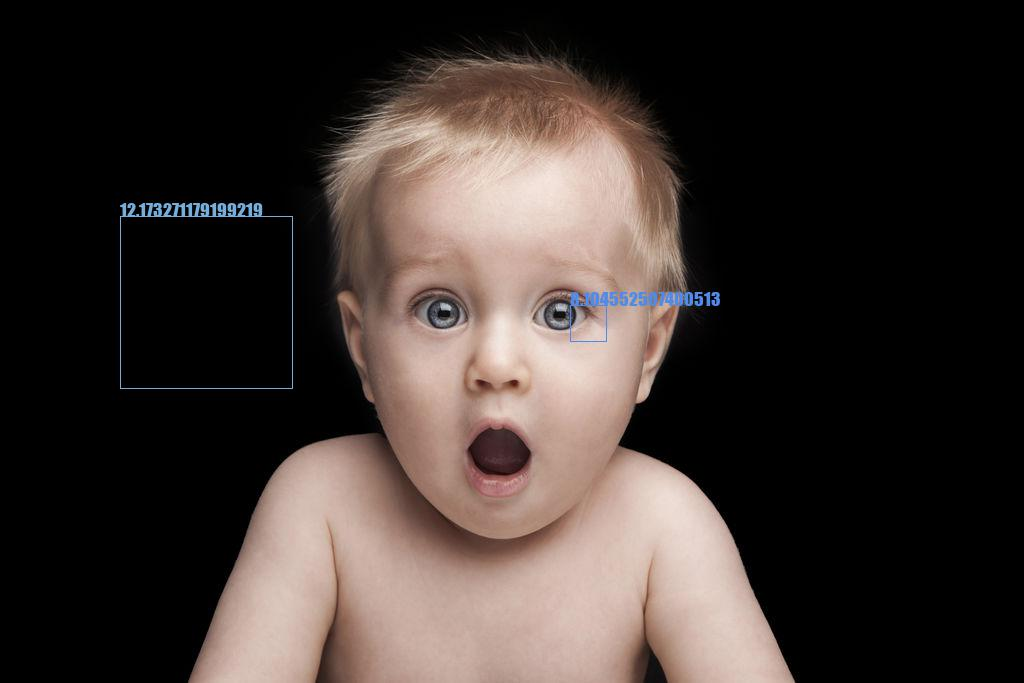
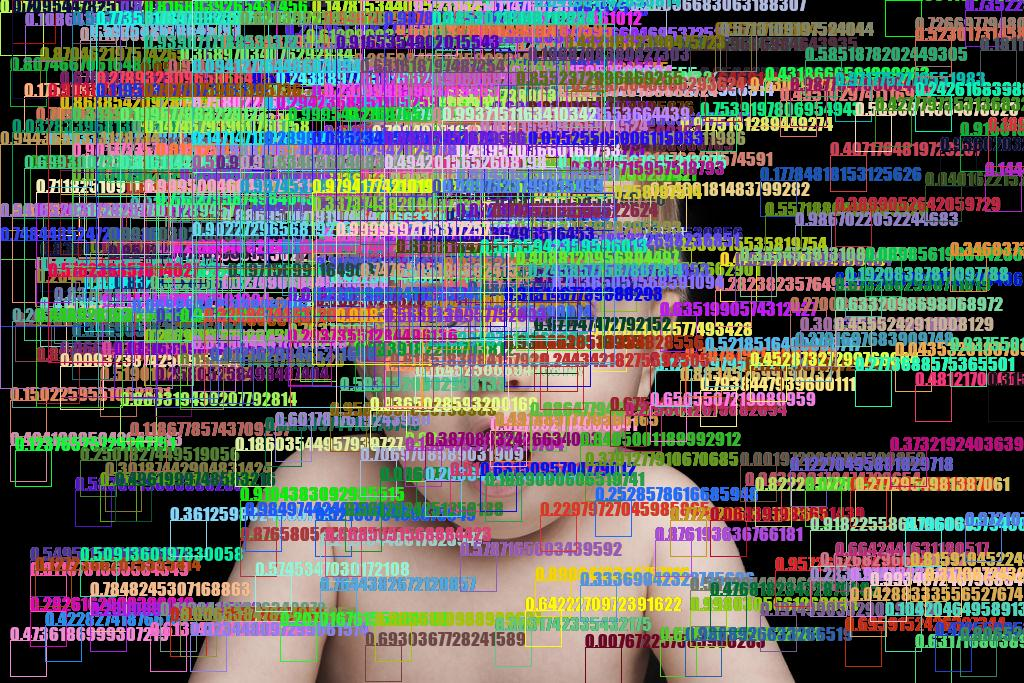
Added multiple image feeding

diff --git a/configuration.py b/configuration.py
@@ -1,10 +1,10 @@
 division_factor = 1.2  # The initial factor to reduce the image. The next divisions are division_factor*2^n,
                        # n is the index of the reduction
-threshold_score = 0  # The minimum score for a frame to get a subdivision from it
+threshold_score = 0.9  # The minimum score for a frame to get a subdivision from it
 nb_shrinkages = 5  # The number of time we reduce the original image and get a reduction from it.
-min_samples = 2  # The minimum of subdetections in a same cluster for the cluster to be accepted as a detection
+min_samples = 8  # The minimum of subdetections in a same cluster for the cluster to be accepted as a detection
 strides = (5, 5)  # stride x and stride y while sliding an image (or a reduction of it)
-nb_image_feeding = 3 # The number of times you feed the image to the neural network before clustering
+nb_image_feeding = 10 # The number of times you feed the image to the neural network before clustering
 
 path_to_original_dataset = 'start_deep/start_deep/'
 data_augmentation = True

diff --git a/main.py b/main.py
@@ -210,7 +210,7 @@ if __name__ == "__main__":
             [transforms.RandomHorizontalFlip(p=1),
              transforms.ToTensor(),
              transforms.Normalize([0.5], [0.5])])
-        train_imagenet += torchvision.datasets.ImageFolder(path_to_training_dataset, transform=transform)
+#        train_imagenet += torchvision.datasets.ImageFolder(path_to_training_dataset, transform=transform)
 
     train_loader = torch.utils.data.DataLoader(train_imagenet, batch_size=4, shuffle=True, num_workers=2, pin_memory=True)
 

diff --git a/detections.py b/detections.py
@@ -95,5 +95,5 @@ def get_detections(subdetections, min_samples=1):
         center = subdetect.get_center()
         centers_frames.append([center[0], center[1]])  # because DBSCAN works with vectors that are lists, not tuples
     print("inside get_detections")
-    return get_clusters_from_frames(centers_frames, (image_dims[0] + image_dims[1]) / 40, min_samples)
+    return get_clusters_from_frames(centers_frames, (image_dims[0] + image_dims[1]) / 100, min_samples)
 
